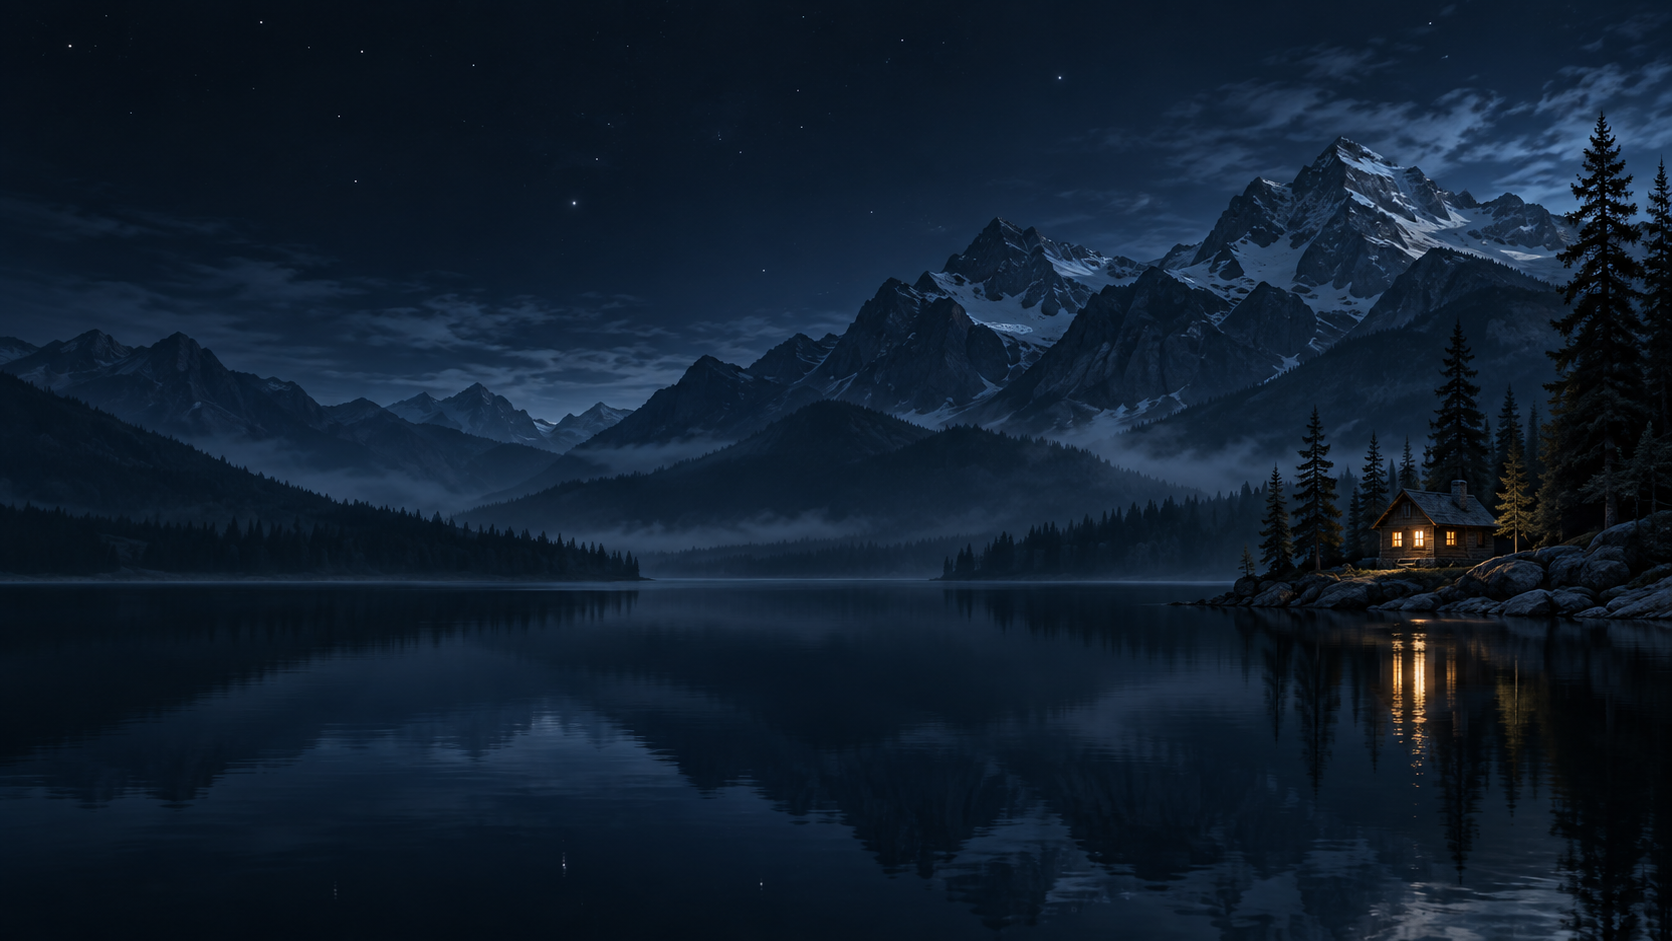
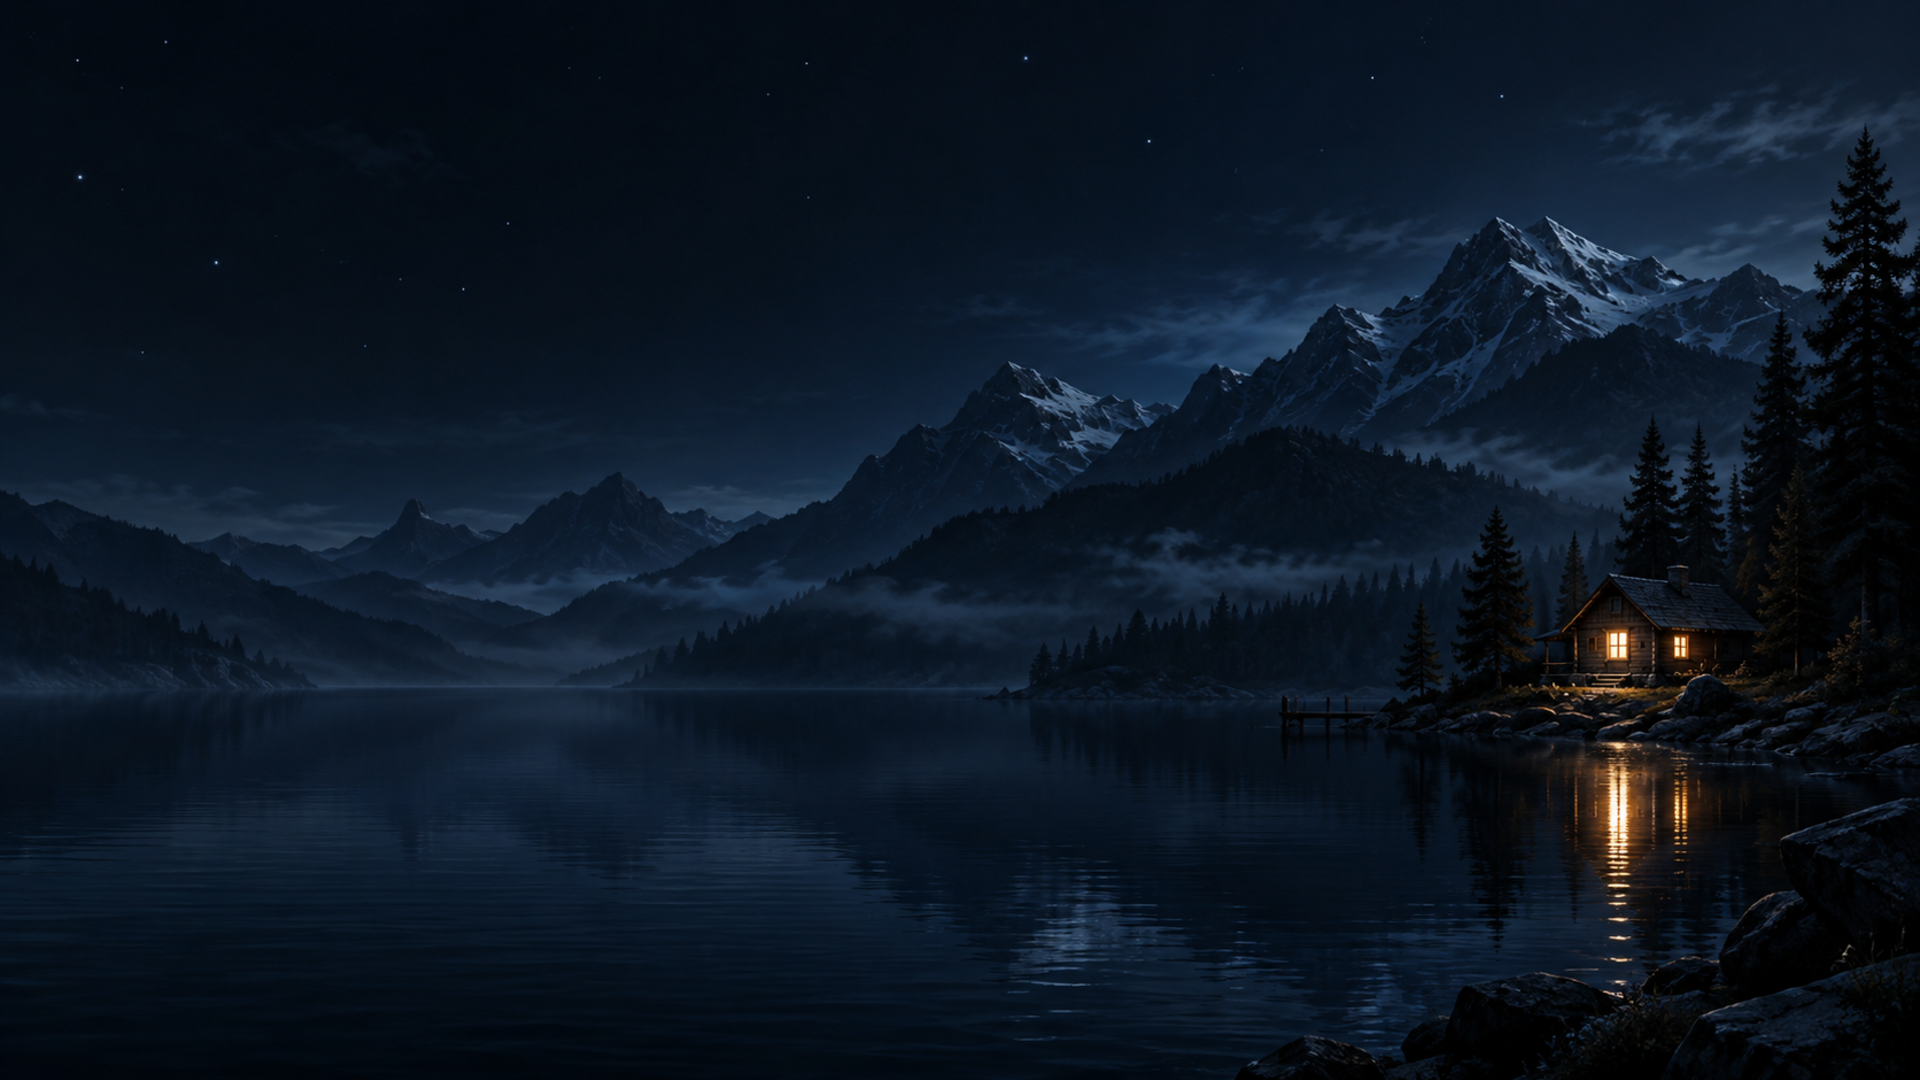
Wallpapers em 1920x1080
Regerados a partir dos prompts originais, agora em FullHD nativo
(antes 1672x941). Mesma paleta e mesma direcao de arte.

Claude-Session: https://claude.ai/code/session_01HEDME64j4Ne6i9se5Q9Smx

diff --git a/README.md b/README.md
@@ -55,7 +55,7 @@ the theme's own `colors.toml`, so the editor and the terminal never drift apart.
 
 ## Wallpapers
 
-The four backgrounds are AI-generated, and are released under the same license
+The four backgrounds are AI-generated at 1920x1080, and are released under the same license
 as the rest of the repo.
 
 ## Not included
